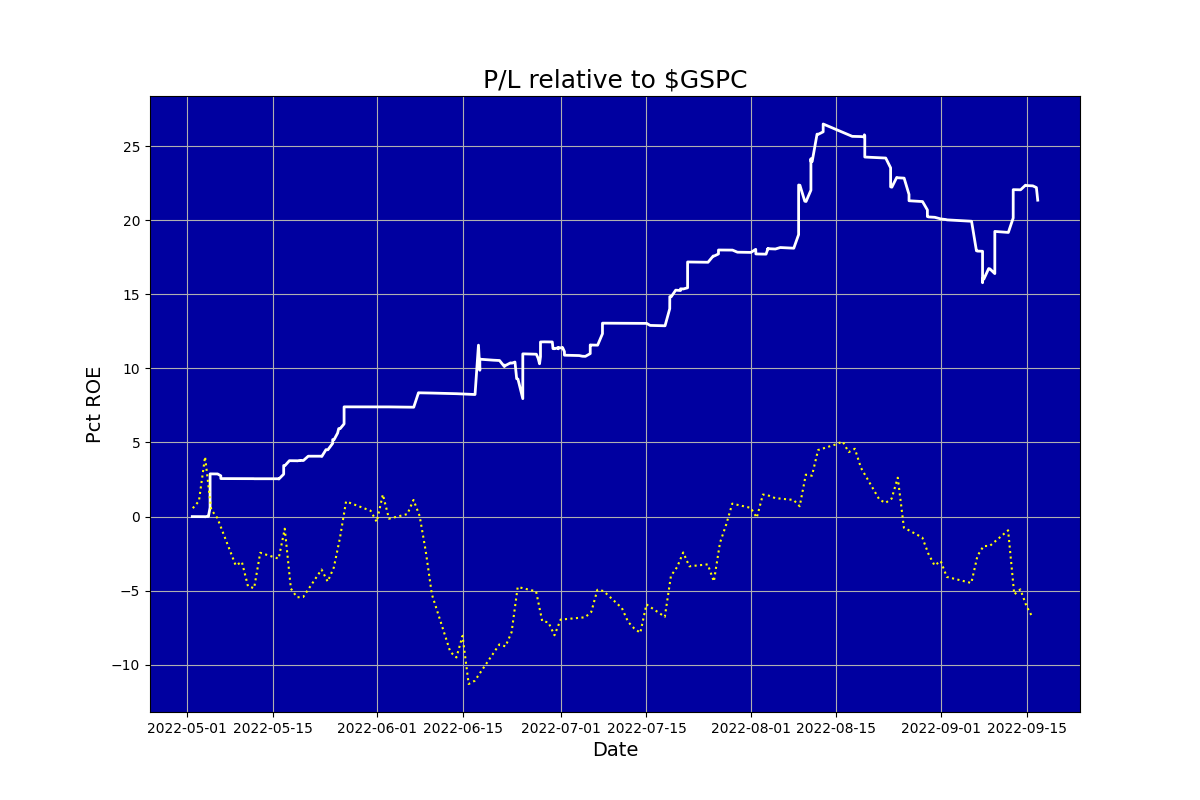
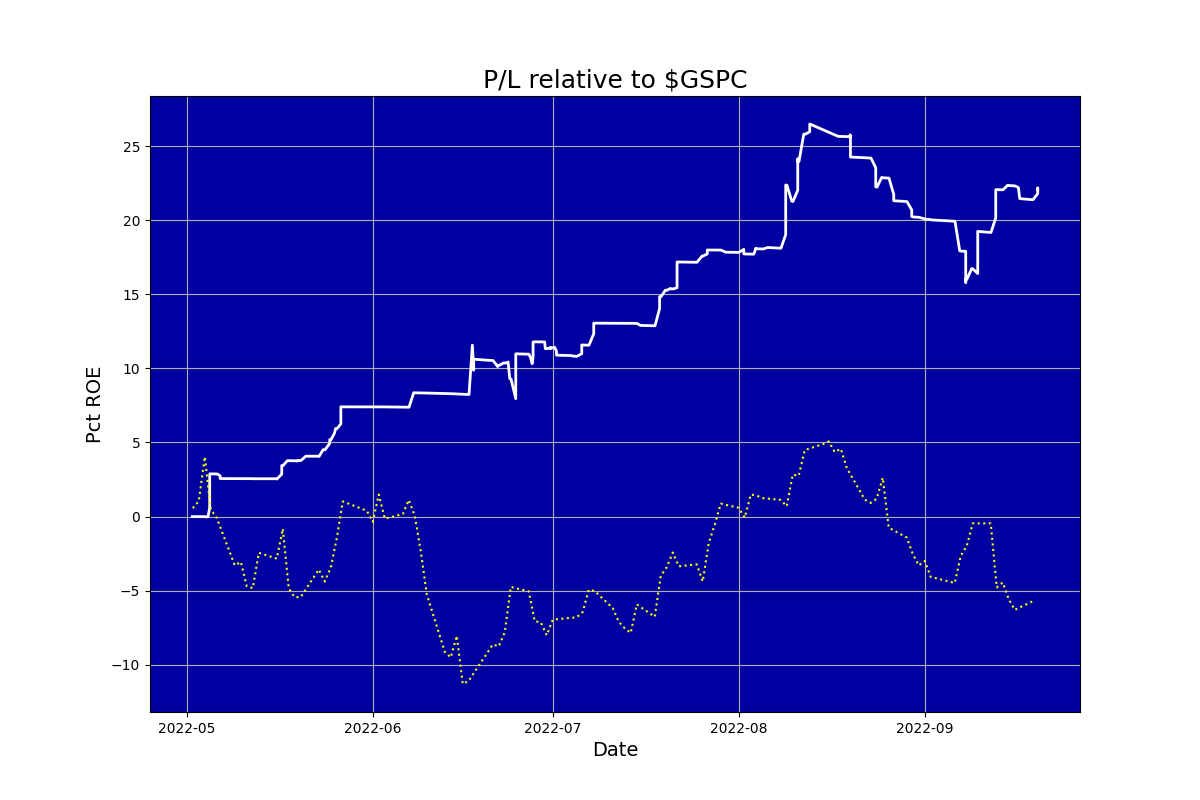
Updated

diff --git a/ig_report.html b/ig_report.html
@@ -1,1 +1,1 @@
-<html><body><center><h1>Auriel (never knowingly overbought)</h1></center><table cols=2><tr><td><img src=ig_pl.png></td><td><table cols=2><tr><td colspan=2><b><br>Snapshot</b></td></tr><tr><td>Last updated:&nbsp;&nbsp;&nbsp;</td><td>2022-09-16 16:00</td></tr><tr><td>Funds:&nbsp;&nbsp;&nbsp;</td><td>14183.79</td></tr><tr><td>Margin:&nbsp;&nbsp;&nbsp;</td><td>0.37</td></tr><tr><td>Cushion:&nbsp;&nbsp;&nbsp;</td><td>-1710.19</td></tr><tr><td>Last closed trade:&nbsp;&nbsp;&nbsp;</td><td>2022-09-16</td></tr><tr><td colspan=2><b><br>Positions</b></td></tr><tr><td>Mean days to new high:&nbsp;&nbsp;&nbsp;</td><td>3.92</td></tr><tr><td colspan=2><b><br>Trades</b></td></tr><tr><td>Num trades:&nbsp;&nbsp;&nbsp;</td><td>126</td></tr><tr><td>Pct winners:&nbsp;&nbsp;&nbsp;</td><td>63.49</td></tr><tr><td>Pct beating benchmark:&nbsp;&nbsp;&nbsp;</td><td>61.60</td></tr><tr><td>Pct profitable months:&nbsp;&nbsp;&nbsp;</td><td>100.00</td></tr><tr><td colspan=2><b><br>Performance</b></td></tr><tr><td>Pct median monthly ROE:&nbsp;&nbsp;&nbsp;</td><td>4.24</td></tr><tr><td>Pct annualised ROE:&nbsp;&nbsp;&nbsp;</td><td>103.41</td></tr><tr><td colspan=2><b><br>Risk</b></td></tr><tr><td>Volatility pct:&nbsp;&nbsp;&nbsp;</td><td>20.61</td></tr><tr><td>Benchmark volatility pct:&nbsp;&nbsp;&nbsp;</td><td>25.18</td></tr><tr><td>Sharpe ratio:&nbsp;&nbsp;&nbsp;</td><td>4.94</td></tr><tr><td>Calmar ratio:&nbsp;&nbsp;&nbsp;</td><td>10.15</td></tr><tr><td>Worst drawdown pct:&nbsp;&nbsp;&nbsp;</td><td>-0.10</td></tr><tr><td>Recovery days from worst drawdown:&nbsp;&nbsp;&nbsp;</td><td>9999.00</td></tr><tr><td>Beat benchmark +ve periods pct:&nbsp;&nbsp;&nbsp;</td><td>0.83</td></tr><tr><td>Beat benchmark -ve periods pct:&nbsp;&nbsp;&nbsp;</td><td>0.92</td></tr><tr><td>Correlation with benchmark:&nbsp;&nbsp;&nbsp;</td><td>0.28</td></tr></table></td></tr></table></body></html>
+<html><body><center><h1>Auriel (never knowingly overbought)</h1></center><table cols=2><tr><td><img src=ig_pl.png></td><td><table cols=2><tr><td colspan=2><b><br>Snapshot</b></td></tr><tr><td>Last updated:&nbsp;&nbsp;&nbsp;</td><td>2022-09-19 16:00</td></tr><tr><td>Funds:&nbsp;&nbsp;&nbsp;</td><td>14264.18</td></tr><tr><td>Margin:&nbsp;&nbsp;&nbsp;</td><td>0.40</td></tr><tr><td>Cushion:&nbsp;&nbsp;&nbsp;</td><td>-1573.27</td></tr><tr><td>Last closed trade:&nbsp;&nbsp;&nbsp;</td><td>2022-09-19</td></tr><tr><td colspan=2><b><br>Positions</b></td></tr><tr><td>Mean days to new high:&nbsp;&nbsp;&nbsp;</td><td>4.11</td></tr><tr><td colspan=2><b><br>Trades</b></td></tr><tr><td>Num trades:&nbsp;&nbsp;&nbsp;</td><td>130</td></tr><tr><td>Pct winners:&nbsp;&nbsp;&nbsp;</td><td>63.85</td></tr><tr><td>Pct beating benchmark:&nbsp;&nbsp;&nbsp;</td><td>62.02</td></tr><tr><td>Pct profitable months:&nbsp;&nbsp;&nbsp;</td><td>100.00</td></tr><tr><td colspan=2><b><br>Performance</b></td></tr><tr><td>Pct median monthly ROE:&nbsp;&nbsp;&nbsp;</td><td>4.24</td></tr><tr><td>Pct annualised ROE:&nbsp;&nbsp;&nbsp;</td><td>105.12</td></tr><tr><td colspan=2><b><br>Risk</b></td></tr><tr><td>Volatility pct:&nbsp;&nbsp;&nbsp;</td><td>20.40</td></tr><tr><td>Benchmark volatility pct:&nbsp;&nbsp;&nbsp;</td><td>25.13</td></tr><tr><td>Sharpe ratio:&nbsp;&nbsp;&nbsp;</td><td>5.07</td></tr><tr><td>Calmar ratio:&nbsp;&nbsp;&nbsp;</td><td>10.32</td></tr><tr><td>Worst drawdown pct:&nbsp;&nbsp;&nbsp;</td><td>-0.10</td></tr><tr><td>Recovery days from worst drawdown:&nbsp;&nbsp;&nbsp;</td><td>9999.00</td></tr><tr><td>Beat benchmark +ve periods pct:&nbsp;&nbsp;&nbsp;</td><td>0.83</td></tr><tr><td>Beat benchmark -ve periods pct:&nbsp;&nbsp;&nbsp;</td><td>0.93</td></tr><tr><td>Correlation with benchmark:&nbsp;&nbsp;&nbsp;</td><td>0.28</td></tr></table></td></tr></table></body></html>
